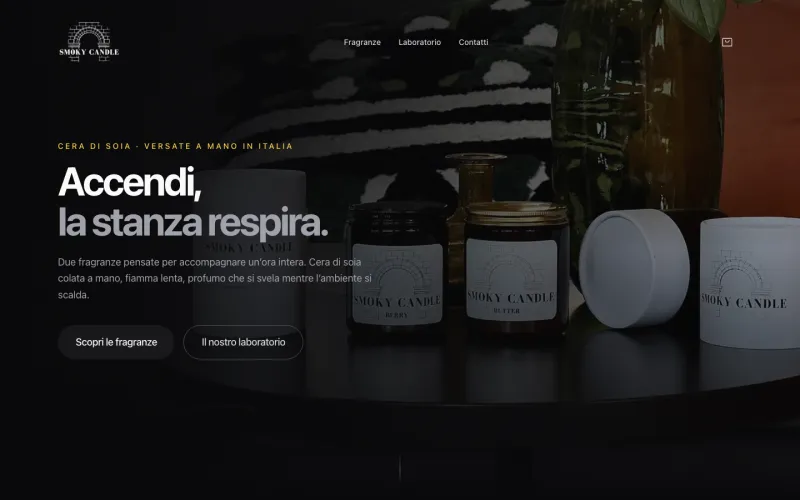
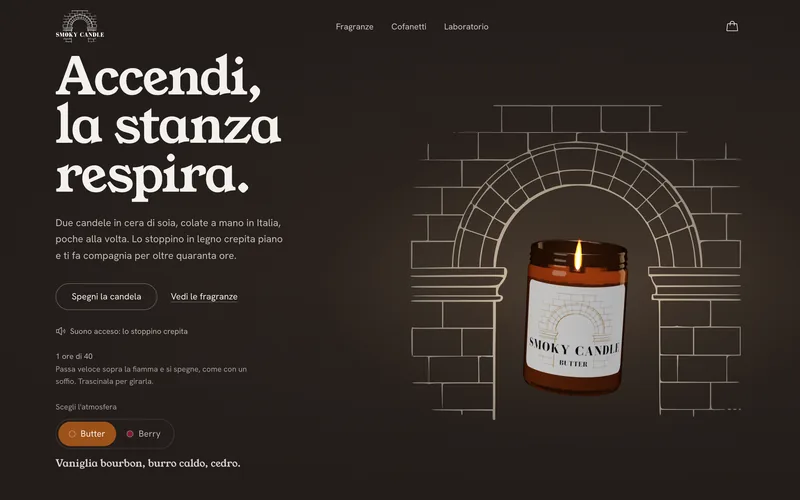
Card Web: la nuova home di Smoky Candle e il suo disegno rimisurato
Schermata a candela accesa (23/09/2026) e SmokyDrawing con le coordinate misurate sulla pagina vera.

diff --git a/src/components/Crafts.tsx b/src/components/Crafts.tsx
@@ -59,7 +59,7 @@ function Spine({ open, children }: { open: boolean; children: ReactNode }) {
 }
 
 // The drawing under the Smoky Candle home page: blocks, text lines and measures of the live page
-// (smokycandle.com at 1440x900, measured on 11/09/2026), in the same coordinates as the screenshot above it.
+// (smokycandle.com at 1440x900, measured on 23/09/2026 with the candle lit), in the same coordinates as the screenshot above it.
 const INK = 'rgba(145, 196, 168, 0.85)';
 const GUIDE = 'rgba(145, 196, 168, 0.28)';
 const ink = { stroke: INK, strokeWidth: 1.4, fill: 'none', vectorEffect: 'non-scaling-stroke' } as const;
@@ -99,43 +99,56 @@ function SmokyDrawing() {
             {/* Drawing paper: dark green with a dot grid, so the lens reads as another sheet, not the photo */}
             <rect width="1440" height="900" fill="#0d1813" />
             <rect width="1440" height="900" fill="url(#drawing-dots)" />
-            {/* The photo behind everything, marked the way drawings mark an image; margins and header line */}
-            <path d="M0 0L1440 900M1440 0L0 900" {...guide} />
-            <path d="M104 0V900M1336 0V900M0 152H1440" {...guide} />
-            <text x="1336" y="186" textAnchor="end" {...label}>header · 152</text>
-            <text x="1336" y="874" textAnchor="end" {...label}>img · 1440×900 · cover</text>
+            {/* Margins and header line */}
+            <path d="M100 0V900M1340 0V900M0 96H1440" {...guide} />
+            <text x="1340" y="126" textAnchor="end" {...label}>header · 96</text>
 
             {/* Header: logo, menu, cart */}
-            <rect x="104" y="20" width="112" height="112" {...ink} />
-            <path d="M104 20L216 132M216 20L104 132" {...ink} strokeOpacity={0.45} />
-            <text x="232" y="46" {...label}>logo · 112</text>
-            <text x="619" y="52" {...label}>nav · 14px</text>
-            <rect x="619" y="66" width="66" height="20" rx="2" {...ink} />
-            <rect x="717" y="66" width="76" height="20" rx="2" {...ink} />
-            <rect x="826" y="66" width="53" height="20" rx="2" {...ink} />
-            <rect x="1282" y="57" width="54" height="38" rx="19" {...ink} />
+            <rect x="100" y="18" width="88" height="60" {...ink} />
+            <path d="M100 18L188 78M188 18L100 78" {...ink} strokeOpacity={0.45} />
+            <text x="204" y="54" {...label}>logo · 60</text>
+            <rect x="605" y="40" width="68" height="16" rx="2" {...ink} />
+            <rect x="705" y="40" width="63" height="16" rx="2" {...ink} />
+            <rect x="800" y="40" width="80" height="16" rx="2" {...ink} />
+            <text x="896" y="54" {...label}>nav · 15px</text>
+            <rect x="1296" y="26" width="44" height="44" rx="22" {...ink} />
 
-            {/* Hero copy: eyebrow, the two lines of the h1, the paragraph, the two buttons */}
-            <rect x="104" y="258" width="424" height="10" {...ink} />
-            <text x="544" y="272" {...label}>p · 14px</text>
-            <rect x="104" y="300" width="258" height="52" {...ink} />
-            <rect x="104" y="372" width="486" height="52" {...ink} />
-            <text x="792" y="312" {...label}>h1 · 72/72</text>
-            <rect x="104" y="466" width="546" height="14" {...ink} />
-            <rect x="104" y="495" width="564" height="14" {...ink} />
-            <rect x="104" y="525" width="56" height="14" {...ink} />
-            <text x="792" y="482" {...label}>p · 18/29</text>
-            <rect x="104" y="585" width="210" height="62" rx="31" {...ink} />
-            <rect x="330" y="585" width="216" height="62" rx="31" {...ink} />
-            <text x="209" y="624" textAnchor="middle" {...label}>210 × 62</text>
-            <text x="438" y="624" textAnchor="middle" {...label}>216 × 62</text>
+            {/* Hero copy: the three lines of the h1, the paragraph, the buttons, the scent switch */}
+            <rect x="100" y="104" width="372" height="66" {...ink} />
+            <rect x="100" y="191" width="405" height="66" {...ink} />
+            <rect x="100" y="279" width="350" height="66" {...ink} />
+            <text x="520" y="148" {...label}>h1 · 92/87</text>
+            <rect x="100" y="394" width="405" height="13" {...ink} />
+            <rect x="100" y="423" width="409" height="13" {...ink} />
+            <rect x="100" y="453" width="326" height="13" {...ink} />
+            <text x="524" y="410" {...label}>p · 18/29</text>
+            <rect x="100" y="510" width="183" height="48" rx="24" {...ink} />
+            <path d="M307 544H428" {...ink} />
+            <text x="444" y="541" {...label}>183 × 48</text>
+            <rect x="100" y="585" width="22" height="22" rx="4" {...ink} />
+            <rect x="134" y="590" width="216" height="12" {...ink} />
+            {/* the burn counter and the hint, shown while the candle is lit */}
+            <rect x="100" y="636" width="70" height="11" {...ink} />
+            <rect x="100" y="659" width="344" height="11" {...ink} />
+            <rect x="100" y="681" width="176" height="11" {...ink} />
+            <rect x="100" y="727" width="112" height="10" {...ink} />
+            <rect x="100" y="754" width="214" height="54" rx="27" {...ink} />
+            <text x="330" y="788" {...label}>214 × 54</text>
+            <rect x="100" y="827" width="333" height="14" {...ink} />
+
+            {/* The arch of the logo, and the 3D candle drawn on a canvas inside it */}
+            <rect x="732" y="183" width="608" height="575" {...guide} />
+            <path d="M852 758V470A184 184 0 0 1 1220 470V758" {...ink} strokeOpacity={0.6} />
+            <text x="1340" y="782" textAnchor="end" {...label}>portone · 608 × 575</text>
+            <rect x="946" y="410" width="180" height="290" rx="22" {...ink} />
+            <path d="M946 410L1126 700M1126 410L946 700" {...ink} strokeOpacity={0.45} />
+            <text x="1036" y="394" textAnchor="middle" {...label}>canvas 3D</text>
 
             {/* The measures: space between the blocks, the column, the margin */}
-            <DimV x={84} y1={273} y2={289} text="16" />
-            <DimV x={84} y1={433} y2={457} text="24" />
-            <DimV x={84} y1={545} y2={585} text="40" />
-            <DimH x1={104} x2={776} y={704} text="672" />
-            <DimH x1={0} x2={104} y={780} text="104" />
+            <DimV x={80} y1={466} y2={510} text="44" />
+            <DimV x={80} y1={558} y2={574} text="16" />
+            <DimH x1={100} x2={603} y={886} text="503" />
+            <DimH x1={0} x2={100} y={886} text="100" />
         </svg>
     );
 }
